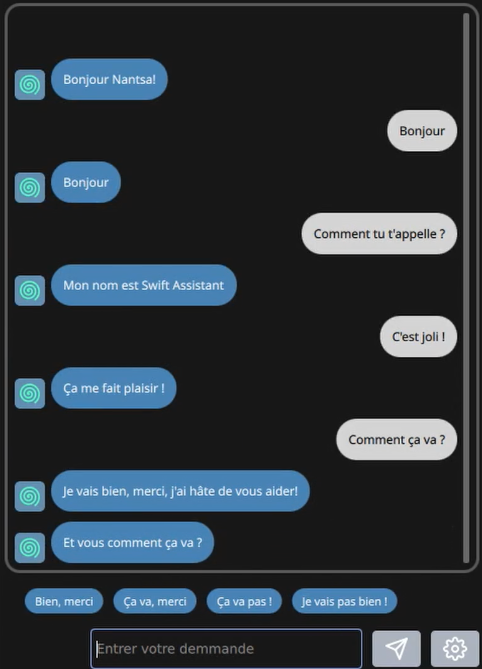
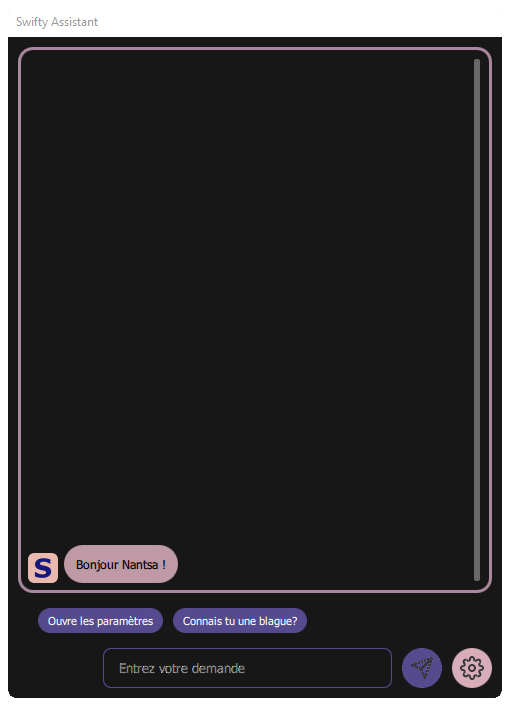
Updated screenshot and README.md, and bug correction with Windows

diff --git a/src/res/main.qml b/src/res/main.qml
@@ -39,7 +39,7 @@ Window {
         color: "#171717"
         width: swifty.getOs() !== "windows" ? parent.width-20 : parent.width
         height: swifty.getOs() !== "windows" ? parent.height-20 : parent.height
-        radius: 15
+        radius: swifty.getOs() !== "windows" ? 15 : 0
 
         Settings {
             id: settings
@@ -89,7 +89,7 @@ Window {
                     window.y = y-(window.height/2)
                 }
                 else {
-                    window.flags = Qt.WindowStaysOnTopHint | Qt.Popup
+                    window.flags = Qt.WindowStaysOnTopHint
                     window.visible = true
                     window.y = Screen.desktopAvailableHeight - height - 10
                     window.x = Screen.desktopAvailableWidth - width - 10

diff --git a/README.md b/README.md
@@ -1,4 +1,4 @@
-# Swifty Assistant
+# <img src="src/res/assistantIcon.png" alt="Capture Swifty Assistant" style="zoom:2.5%;" /> Swifty Assistant
 
 [![License](https://img.shields.io/badge/license-GPLv3.0-blue.svg)](https://www.gnu.org/licenses/gpl-3.0.html) [![GitHub issues](https://img.shields.io/github/issues/Swiftapp-hub/Swifty-Assistant.svg)](https://github.com/Swiftapp-hub/Swifty-Assistant/issues) [![Maintained](https://img.shields.io/maintenance/yes/2021.svg)](https://github.com/Swiftapp-hub/Swifty-Assistant/commits/develop)
 
@@ -11,7 +11,7 @@ I'm French so the English version of Swifty isn't fully up to date, but if you w
 
 ### Screenshoot
 
-<img src="screenshot/swifty.png" alt="Capture Swifty Assistant" style="zoom:70%;" /> 
+<img src="screenshot/swifty.png" alt="Capture Swifty Assistant" style="zoom:70%;" /> <img src="screenshot/swifty1.png" alt="Capture Swifty Assistant" style="zoom:70%;" /> 
 
 ## Get Swifty Assistant
 
